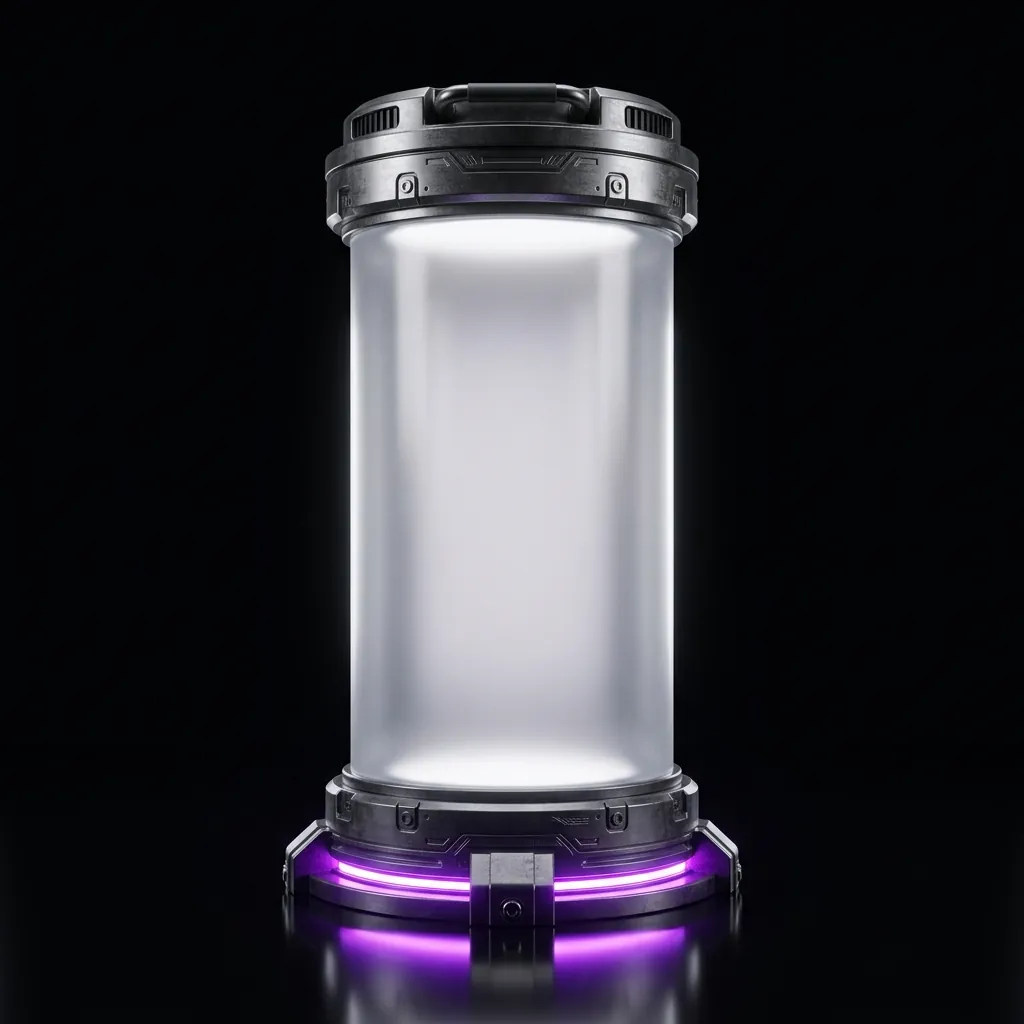
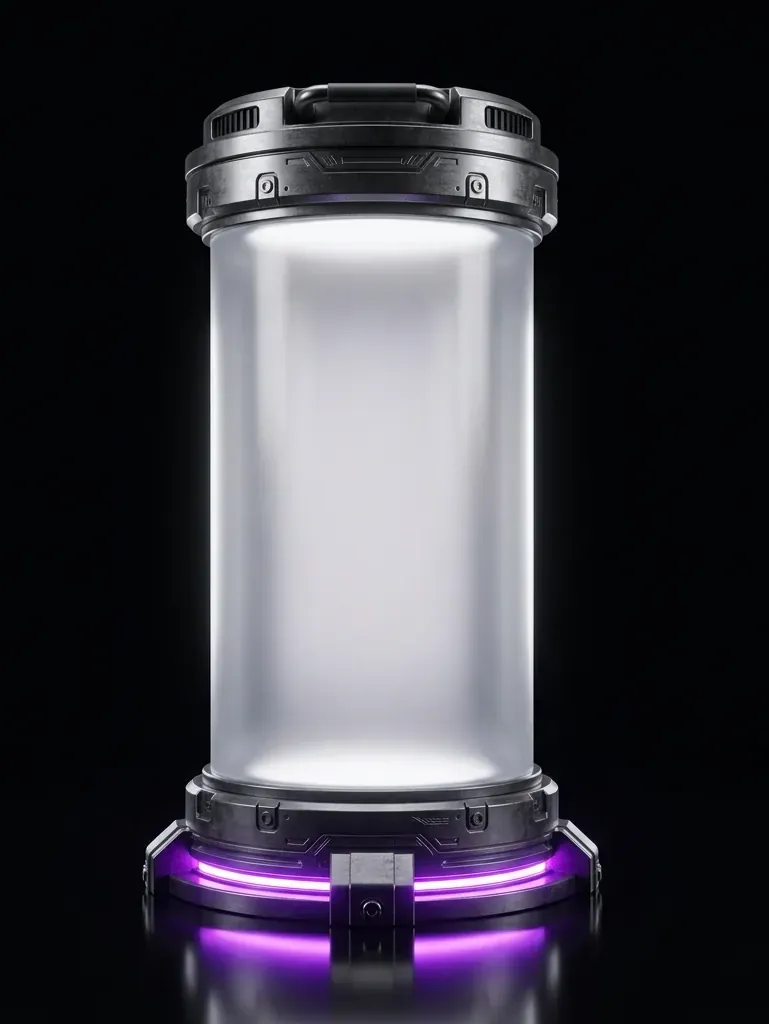
fix: narrow vault black background and fix 2-item carousel infinite swipe

Changed region(s): [[0.1873, 0.0625, 0.7802, 1.0]]

diff --git a/src/styles/vault.css b/src/styles/vault.css
@@ -227,7 +227,7 @@
   width: min(70vh, 50vw);
   height: min(80vh, 60vw);
   background-image: url('/assets/vault-bg.webp');
-  background-size: contain;
+  background-size: 75% auto;
   background-position: center;
   background-repeat: no-repeat;
   pointer-events: none;
